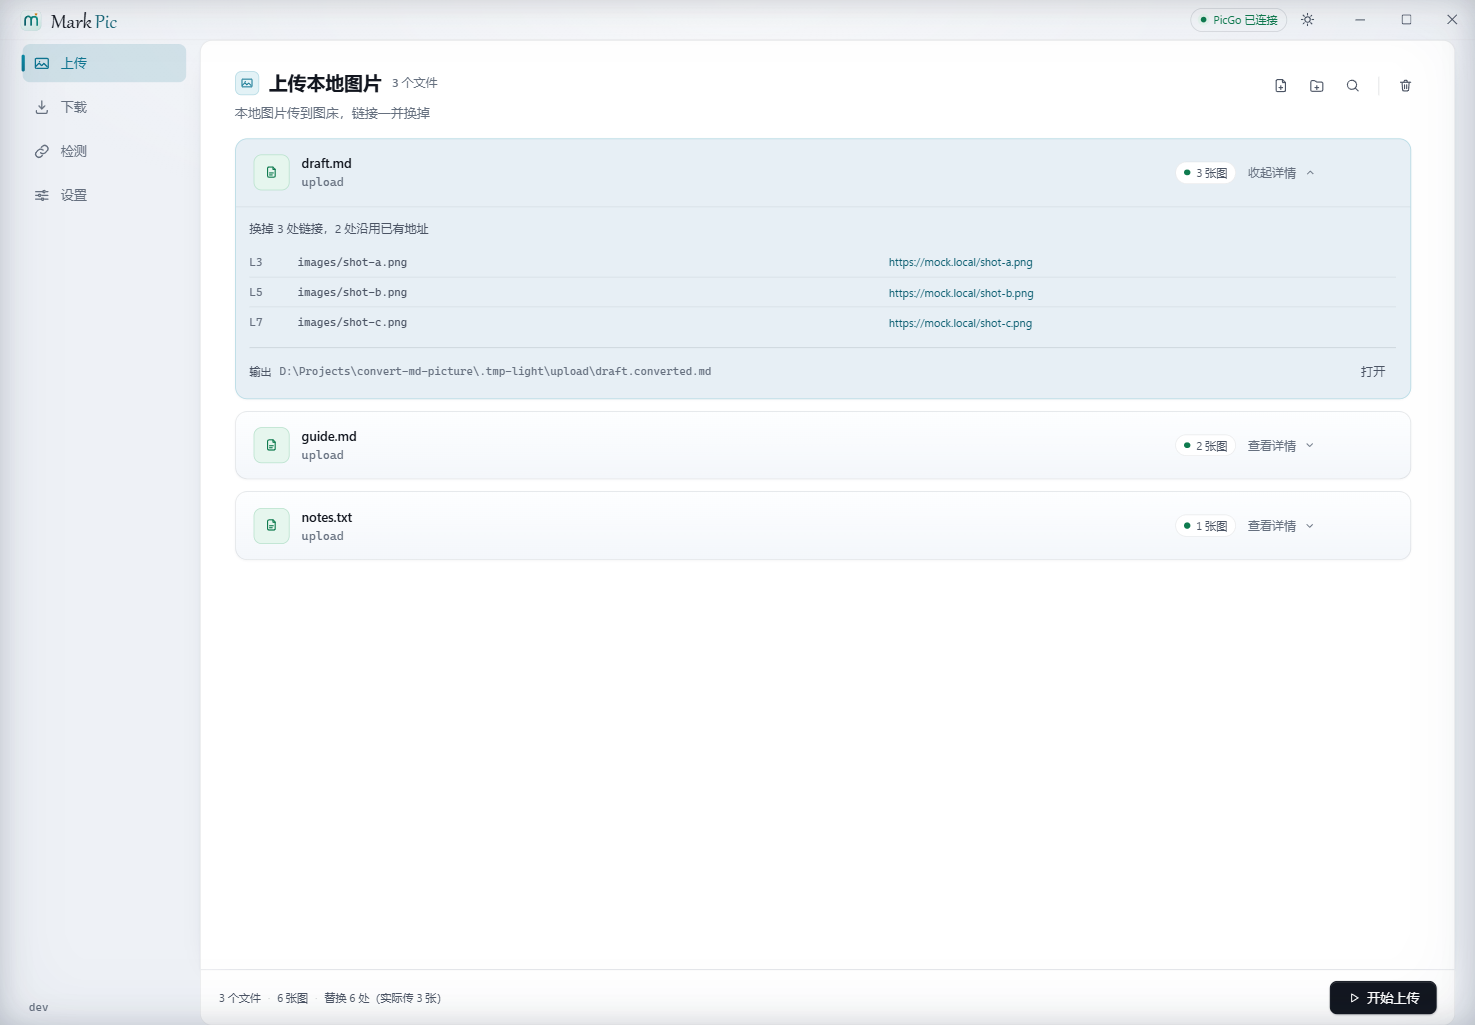
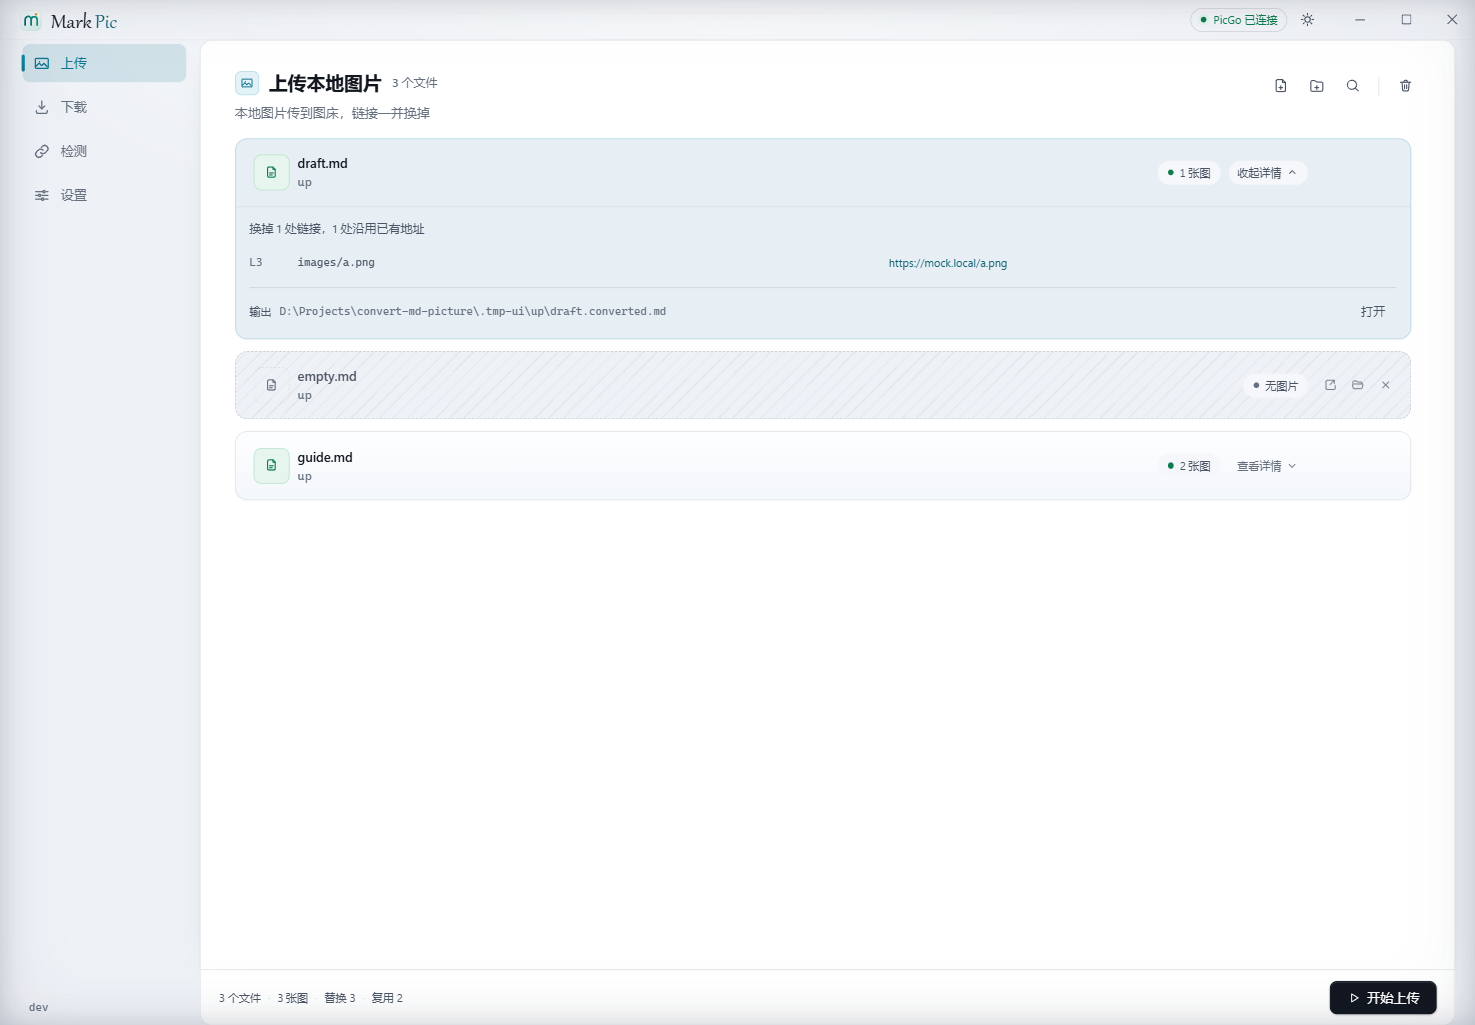
界面：卡片右侧的徽标 / 详情 / 图标按钮统一成一条 24px 基线
用户反馈卡片右侧「徽标和按钮没对齐」。三个页面（上传 / 检测 / 下载）各自一套
卡头样式，徽标高度、字号、间距都不一样：

- 统一高度 24px：计数胶囊、检测/下载的分组徽标、查看详情、图标按钮全部同高，
  行内一律 align-items:center。
- 统一字号 fs-1、line-height 1：以前计数胶囊 12px、查看详情 13px，同一行两种字号。
- 计数胶囊去掉描边，改成软底（panel-2）：「徽标」和「详情按钮」不再被一堵边线
  分成两种物件；查看详情是幽灵按钮，悬停才浮出底色，展开后保持同样的胶囊形状。
- 箭头固定 14×14 居中，不再因为 svg 行内基线往下坠。
- 间距统一 8px（原来 card 头 12px、group 头 12px、图标按钮 2px 混着来）。

顺带修英文单复数：下载页徽标与汇总行会显示「1 images」「1 remote images」。
新增 i18n plural(key,count) 助手，计数文案统一走它；补了 row.count.one、
check.group.count.one、check.band.addresses.one、download.band.images.one。

截图：中英各重拍 upload/check/download 六张（亮色），README 同步替换。
验证：三页真实窗口截图对比；vue-tsc / go build / go test ./internal/app ./internal/conv 通过。

diff --git a/web/src/components/FileRow.vue b/web/src/components/FileRow.vue
@@ -839,10 +839,10 @@ function toggleExpanded(): void {
   display: flex;
   flex: 1 1 auto;
   align-items: center;
-  gap: 12px;
+  gap: 8px;
   min-width: 0;
   width: 100%;
-  padding: 14px 6px 14px 18px;
+  padding: 14px 10px 14px 18px;
   border: 0;
   background: none;
   color: inherit;
@@ -924,18 +924,23 @@ function toggleExpanded(): void {
 }
 
 /* 图片数做成一枚小胶囊：纯数字在卡片右边太轻，立不住 */
+/* 卡片右侧是一排同高的「小件」：胶囊、查看详情、图标按钮都是 24px，
+   一律垂直居中。以前胶囊 23px、文字 18px、图标 24px 混在一起，右边看着发毛。 */
 .item__count {
   display: inline-flex;
   flex: none;
   align-items: center;
   gap: 6px;
-  padding: 2px 8px;
-  border: 1px solid var(--line);
+  height: 24px;
+  padding: 0 9px;
+  /* 不用描边：一颗软底胶囊和旁边的幽灵按钮同高同圆角，一排看过去才是一行；
+     描边会把「徽标」和「按钮」分成两种物件，视觉上就错位了。 */
+  border: 1px solid transparent;
   border-radius: var(--r-pill);
-  background: var(--panel);
+  background: var(--panel-2);
   color: var(--ink-2);
   font-size: var(--fs-1);
-  line-height: 1.5;
+  line-height: 1;
   white-space: nowrap;
 }
 
@@ -966,6 +971,8 @@ function toggleExpanded(): void {
 .item__status {
   display: flex;
   flex: none;
+  align-items: center;
+  height: 24px;
 }
 
 /* 「查看详情」本身就是一个动作词，比「未处理」这种半截状态诚实 */
@@ -973,28 +980,43 @@ function toggleExpanded(): void {
   color: var(--ink-2);
 }
 
+/* 「查看详情」做成同高的幽灵按钮：和胶囊、图标按钮共用一条基线与一圈圆角，
+   是卡片上仅次于标题的第二个可点区域。 */
 .item__more {
   display: inline-flex;
   flex: none;
   align-items: center;
-  gap: 6px;
-  transition: color 140ms var(--ease-out);
+  gap: 4px;
+  height: 24px;
+  padding: 0 8px;
+  border: 1px solid transparent;
+  border-radius: var(--r-pill);
   color: var(--ink-3);
-  font-size: var(--fs-2);
+  font-size: var(--fs-1);
+  line-height: 1;
   white-space: nowrap;
-  transition: color var(--t-fast) var(--ease);
+  transition:
+    color var(--t-fast) var(--ease),
+    background var(--t-fast) var(--ease);
+}
+
+/* 展开之后把「查看详情」换成同一颗胶囊的样子：位置不动，只换文案与箭头方向 */
+.card__head[aria-expanded='true'] .item__more {
+  background: var(--panel-2);
+  color: var(--ink-2);
 }
 
 .card__head:hover .item__more,
 .card__head:focus-visible .item__more {
   color: var(--ink-2);
+  background: var(--panel-2);
 }
 
 .item__chev {
   display: inline-grid;
   place-items: center;
-  width: 16px;
-  height: 16px;
+  width: 14px;
+  height: 14px;
   transition: transform var(--t-base) var(--ease);
 }
 
@@ -1135,8 +1157,8 @@ function toggleExpanded(): void {
   display: flex;
   flex: none;
   align-items: center;
-  gap: 2px;
-  padding-right: 10px;
+  gap: 4px;
+  padding-right: 12px;
 }
 
 /* 手不放在卡上时不显示：一列十张卡、张张挂两个按钮，比什么都吵 */

diff --git a/web/src/assets/layout.css b/web/src/assets/layout.css
@@ -41,8 +41,8 @@
 .group-card__head {
   display: flex;
   align-items: center;
-  gap: 12px;
-  padding: 12px 16px;
+  gap: 8px;
+  padding: 12px 14px;
   border-bottom: 1px solid var(--line);
 }
 
@@ -138,16 +138,21 @@
   flex: none;
   align-items: center;
   gap: 6px;
+  height: 24px;
 }
 
+/* 徽标、查看详情、图标按钮共用 24px 高的一条基线，右边才齐 */
 .badge {
-  padding: 1px 7px;
+  display: inline-flex;
+  align-items: center;
+  height: 24px;
+  padding: 0 9px;
   border: 1px solid var(--line);
   border-radius: var(--r-pill);
   background: var(--panel-2);
   color: var(--ink-2);
   font-size: var(--fs-1);
-  line-height: 1.6;
+  line-height: 1;
   white-space: nowrap;
 }
 
@@ -232,10 +237,24 @@
   display: inline-flex;
   flex: none;
   align-items: center;
-  gap: 6px;
+  gap: 4px;
+  height: 24px;
+  padding: 0 8px;
+  border: 1px solid transparent;
+  border-radius: var(--r-pill);
   color: var(--ink-3);
   font-size: var(--fs-1);
+  line-height: 1;
   white-space: nowrap;
+  transition:
+    color var(--t-fast) var(--ease),
+    background var(--t-fast) var(--ease);
+}
+
+.group-card__head:hover .group-card__more,
+.group-card__head:focus-within .group-card__more {
+  color: var(--ink-2);
+  background: var(--panel-2);
 }
 
 .group-card__more--on {
@@ -249,8 +268,9 @@
   display: flex;
   flex: none;
   align-items: center;
-  gap: 2px;
+  gap: 4px;
   margin-left: 2px;
+  padding-right: 2px;
 }
 
 .group-card__tools .icon-btn {
@@ -275,6 +295,10 @@
 }
 
 .group-card__chev {
+  display: inline-grid;
+  place-items: center;
+  width: 14px;
+  height: 14px;
   transition: transform 200ms var(--ease);
 }
 

diff --git a/web/src/i18n/en.ts b/web/src/i18n/en.ts
@@ -405,6 +405,7 @@ export const en: Record<keyof typeof zh, string> = {
   'footer.runningElsewhere': '{page} is running',
   'footer.runningElsewhereMany': '{pages} are running too',
   'check.band.addresses': 'addresses',
+  'check.band.addresses.one': 'address',
   'check.band.pending': 'to check',
   'check.band.ok': 'reachable',
   'check.band.bad': 'broken',
@@ -414,6 +415,7 @@ export const en: Record<keyof typeof zh, string> = {
   'check.filter.bad': 'Broken',
   'check.filter.ok': 'Reachable',
   'check.group.count': '{count} addresses',
+  'check.group.count.one': '{count} address',
   'check.group.ok': '{count} reachable',
   'check.group.pending': '{count} to check',
   'check.group.bad': '{count} broken',
@@ -428,6 +430,7 @@ export const en: Record<keyof typeof zh, string> = {
   'download.group.bad': '{count} failed',
   'download.group.unsupported': '{count} unsupported',
   'download.band.images': 'remote images',
+  'download.band.images.one': 'remote image',
   'download.band.pending': 'to fetch',
   'download.band.saved': 'saved',
   'download.band.reused': 'reused',

diff --git a/web/src/i18n/zh.ts b/web/src/i18n/zh.ts
@@ -400,6 +400,7 @@ export const zh = {
   'footer.runningElsewhere': '{page} 正在运行',
   'footer.runningElsewhereMany': '{pages} 正在同时运行',
   'check.band.addresses': '个地址',
+  'check.band.addresses.one': '个地址',
   'check.band.pending': '待检测',
   'check.band.ok': '能打开',
   'check.band.bad': '打不开',
@@ -409,6 +410,7 @@ export const zh = {
   'check.filter.bad': '打不开',
   'check.filter.ok': '能打开',
   'check.group.count': '{count} 个地址',
+  'check.group.count.one': '{count} 个地址',
   'check.group.ok': '{count} 个能打开',
   'check.group.pending': '{count} 个待检测',
   'check.group.bad': '{count} 个打不开',
@@ -423,6 +425,7 @@ export const zh = {
   'download.group.bad': '{count} 个失败',
   'download.group.unsupported': '{count} 个没法处理',
   'download.band.images': '张远程图',
+  'download.band.images.one': '张远程图',
   'download.band.pending': '待取回',
   'download.band.saved': '已取回',
   'download.band.reused': '沿用上次',

diff --git a/web/src/components/CheckPage.vue b/web/src/components/CheckPage.vue
@@ -5,7 +5,7 @@ import ResultGroup from './ResultGroup.vue'
 import StatusPill from './StatusPill.vue'
 import type { ImageItem } from '../types'
 import type { RunRowView, ScanState } from '../composables/useRun'
-import { useI18n } from '../i18n'
+import { plural, useI18n } from '../i18n'
 import type { MessageKey } from '../i18n'
 import { shortReason } from '../composables/useDeadLinks'
 import { useToasts } from '../composables/useToasts'
@@ -313,7 +313,7 @@ const emptyHint = computed<MessageKey>(() => {
         @retry-scan="emit('retry-scan', group.id)"
       >
         <template #badges>
-          <span class="badge">{{ t('check.group.count', { count: group.list.length }) }}</span>
+          <span class="badge">{{ t(plural('check.group.count', group.list.length), { count: group.list.length }) }}</span>
           <span v-if="group.ok > 0" class="badge badge--ok">
             {{ t('check.group.ok', { count: group.ok }) }}
           </span>

diff --git a/web/src/components/DownloadPage.vue b/web/src/components/DownloadPage.vue
@@ -5,7 +5,7 @@ import ResultGroup from './ResultGroup.vue'
 import StatusPill from './StatusPill.vue'
 import type { ImageItem } from '../types'
 import type { RunRowView } from '../composables/useRun'
-import { useI18n } from '../i18n'
+import { plural, useI18n } from '../i18n'
 import type { MessageKey } from '../i18n'
 import { shortReason } from '../composables/useDeadLinks'
 import { useToasts } from '../composables/useToasts'
@@ -227,7 +227,7 @@ const band = computed(() => {
         @retry-scan="emit('retry-scan', group.row.id)"
       >
         <template #badges>
-          <span class="badge">{{ t('row.count', { count: group.items.length }) }}</span>
+          <span class="badge">{{ t(plural('row.count', group.items.length), { count: group.items.length }) }}</span>
           <span v-if="group.saved > 0" class="badge badge--ok">
             {{ t('download.group.saved', { count: group.saved }) }}
           </span>

diff --git a/web/src/components/ReportShell.vue b/web/src/components/ReportShell.vue
@@ -4,7 +4,7 @@ import AppIcon from './AppIcon.vue'
 import type { IconName } from './AppIcon.vue'
 import EmptyState from './EmptyState.vue'
 import PageHead from './PageHead.vue'
-import { useI18n } from '../i18n'
+import { plural, useI18n } from '../i18n'
 import type { MessageKey } from '../i18n'
 
 /**
@@ -89,7 +89,7 @@ const { t } = useI18n()
         <span v-if="index > 0" class="report__sep" aria-hidden="true">·</span>
         <span class="report__stat" :class="`report__stat--${cell.tone}`">
           <AnimatedNumber :value="cell.count" />
-          <span class="report__lbl">{{ t(cell.key) }}</span>
+          <span class="report__lbl">{{ t(plural(cell.key, cell.count)) }}</span>
         </span>
       </template>
     </p>

diff --git a/web/src/i18n/index.ts b/web/src/i18n/index.ts
@@ -47,6 +47,18 @@ function setLang(next: Lang): void {
   apply()
 }
 
+/**
+ * 取单复数正确的 key：count 为 1 且词典里有 `<key>.one` 时用那一条。
+ *
+ * 英文里「1 images」一眼就是没做完的样子；中文两条文案相同，纯属占位。
+ * 所有计数文案都走这里，不要在调用点上各写一遍。
+ */
+export function plural(key: MessageKey, count: number): MessageKey {
+  if (count !== 1) return key
+  const one = `${key}.one` as MessageKey
+  return one in zh ? one : key
+}
+
 /** 取文案；{name} 会被 params 里的同名值替换。 */
 export function t(key: MessageKey, params?: Record<string, string | number>): string {
   const text = CATALOG[lang.value][key] ?? zh[key] ?? key

diff --git a/web/src/components/StatusPill.vue b/web/src/components/StatusPill.vue
@@ -31,6 +31,7 @@ withDefaults(
   color: var(--ink-3);
   font-size: var(--fs-1);
   font-weight: 500;
+  line-height: 1;
   white-space: nowrap;
 }
 
